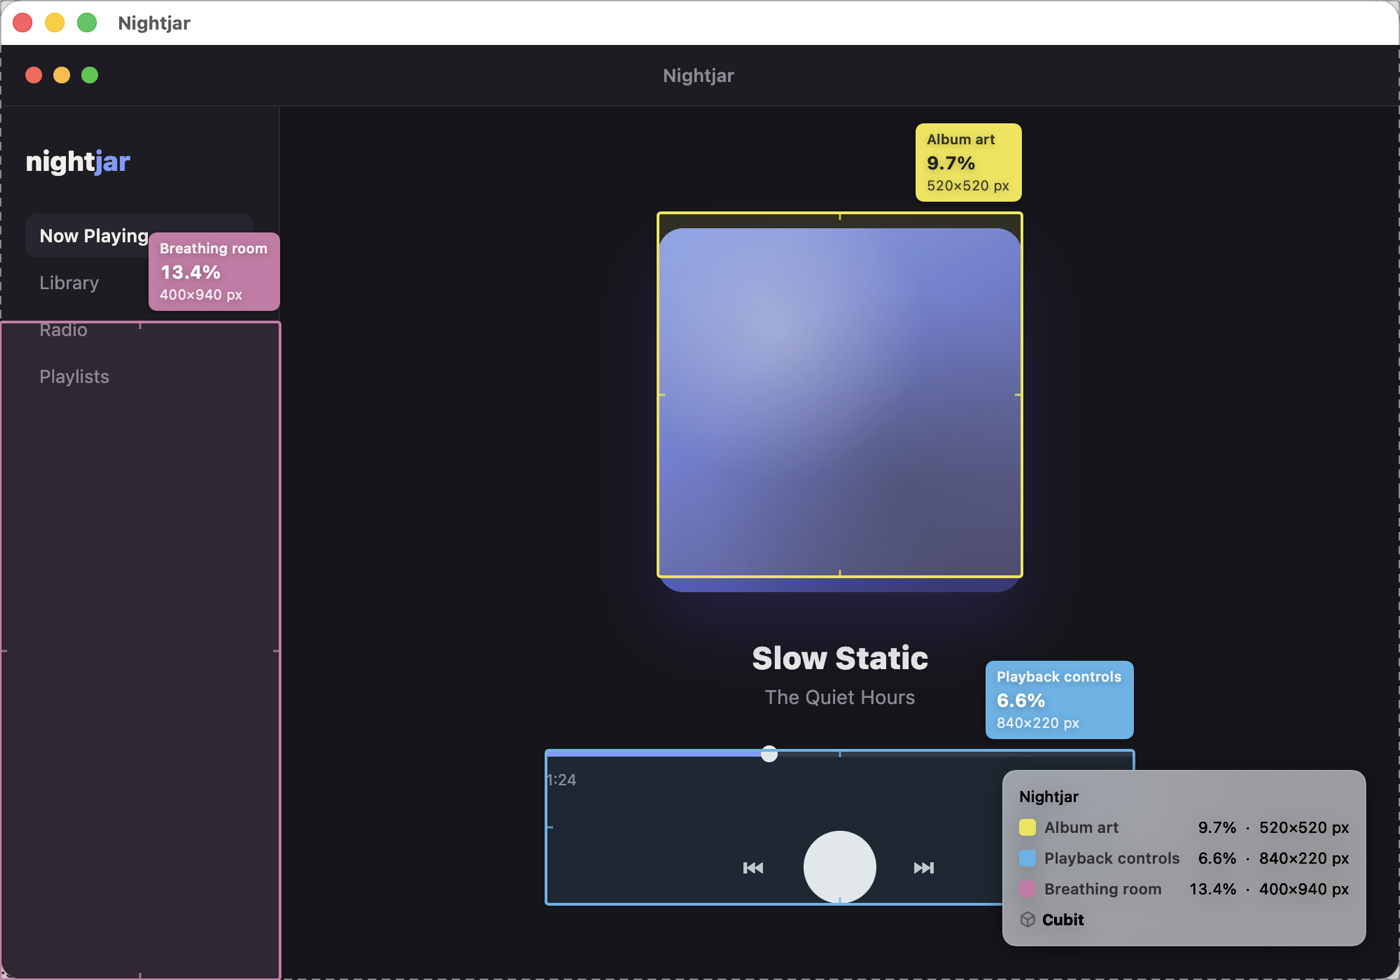
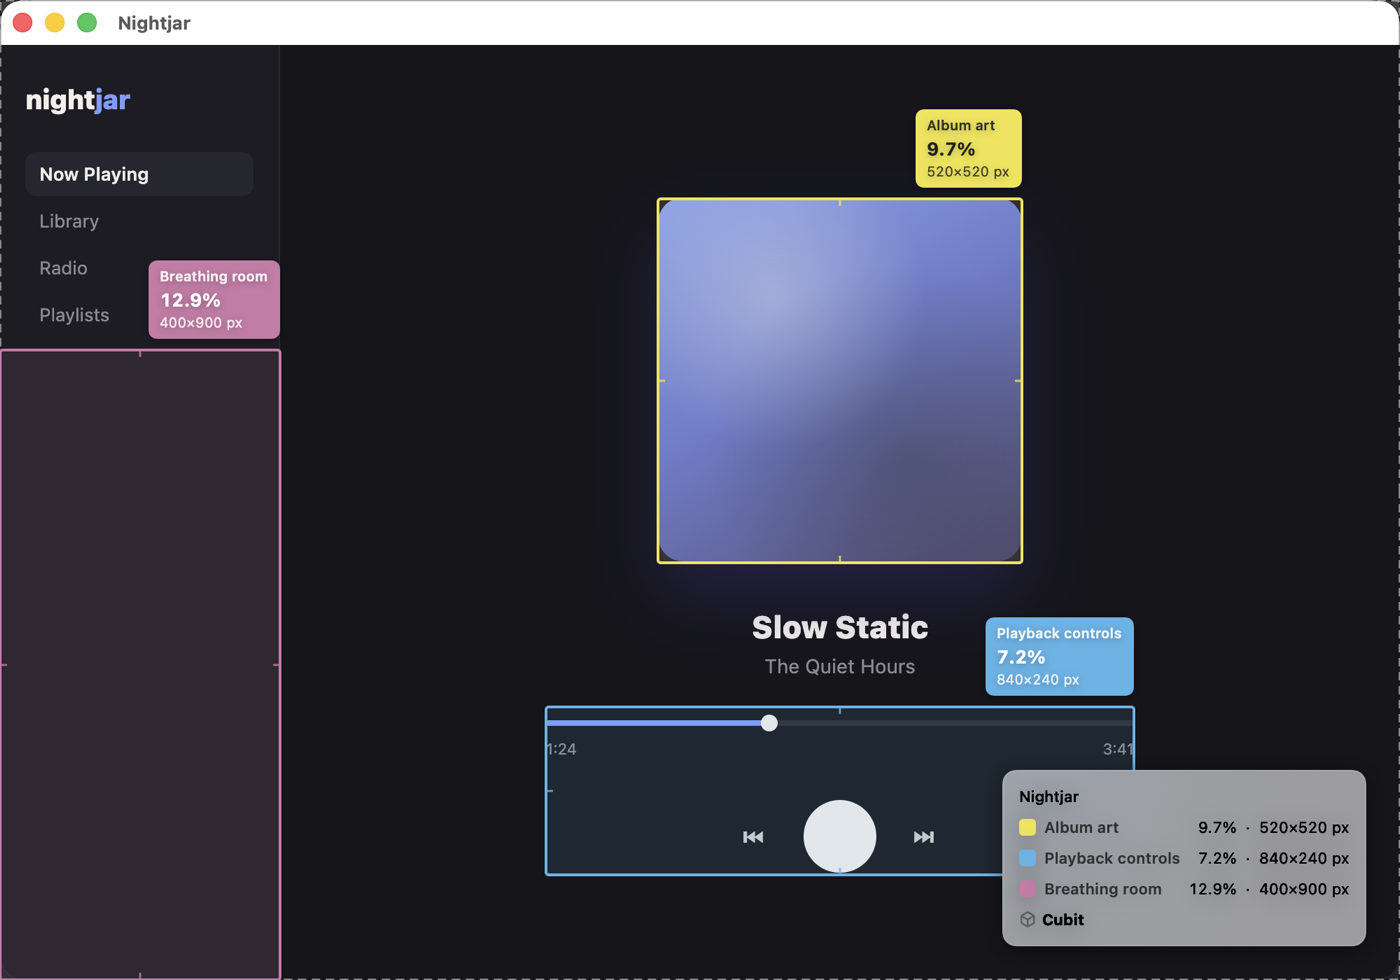
fix(readme): remove doubled title bar from staged export screenshots
The recipe and music app mockups drew a fake in-page title bar on top of
Chrome's real --app window chrome, so both README exports showed two
stacked title bars. Drops the fake bar (the real native one is authentic
enough), re-stages both windows, and re-renders both PNGs through the
same ExportRenderer pipeline with measurement rects re-measured against
the new layout so callouts line up tightly with the actual elements.

Claude-Session: https://claude.ai/code/session_01Leyfy1kbPUkrd3jtNjDjmb

diff --git a/Design/ReadmeAssets/source/music-app.html b/Design/ReadmeAssets/source/music-app.html
@@ -13,28 +13,7 @@
     background: #15151A;
     color: #F1EFEA;
   }
-  .titlebar {
-    height: 44px;
-    display: flex;
-    align-items: center;
-    padding: 0 18px;
-    background: #1C1C22;
-    border-bottom: 1px solid #2A2A32;
-  }
-  .dots { display: flex; gap: 8px; }
-  .dot { width: 12px; height: 12px; border-radius: 50%; }
-  .dot.red { background: #FF5F57; }
-  .dot.yellow { background: #FEBC2E; }
-  .dot.green { background: #28C840; }
-  .titlebar .name {
-    flex: 1;
-    text-align: center;
-    font-size: 13px;
-    font-weight: 600;
-    color: #8B8A93;
-    margin-right: 54px;
-  }
-  .layout { display: flex; height: calc(700px - 44px); }
+  .layout { display: flex; height: 700px; }
   .sidebar {
     width: 200px;
     padding: 28px 18px;
@@ -76,10 +55,6 @@
 </style>
 </head>
 <body>
-  <div class="titlebar">
-    <div class="dots"><div class="dot red"></div><div class="dot yellow"></div><div class="dot green"></div></div>
-    <div class="name">Nightjar</div>
-  </div>
   <div class="layout">
     <div class="sidebar">
       <div class="brand">night<span>jar</span></div>

diff --git a/Design/ReadmeAssets/source/recipe-app.html b/Design/ReadmeAssets/source/recipe-app.html
@@ -13,28 +13,7 @@
     background: #FBF6EE;
     color: #2E2A24;
   }
-  .titlebar {
-    height: 44px;
-    display: flex;
-    align-items: center;
-    padding: 0 18px;
-    background: #F3ECDD;
-    border-bottom: 1px solid #E3D9C2;
-  }
-  .dots { display: flex; gap: 8px; }
-  .dot { width: 12px; height: 12px; border-radius: 50%; }
-  .dot.red { background: #FF5F57; }
-  .dot.yellow { background: #FEBC2E; }
-  .dot.green { background: #28C840; }
-  .titlebar .name {
-    flex: 1;
-    text-align: center;
-    font-size: 13px;
-    font-weight: 600;
-    color: #6B6252;
-    margin-right: 54px;
-  }
-  .layout { display: flex; height: calc(700px - 44px); }
+  .layout { display: flex; height: 700px; }
   .sidebar {
     width: 220px;
     padding: 32px 20px;
@@ -108,10 +87,6 @@
 </style>
 </head>
 <body>
-  <div class="titlebar">
-    <div class="dots"><div class="dot red"></div><div class="dot yellow"></div><div class="dot green"></div></div>
-    <div class="name">Golden Hour</div>
-  </div>
   <div class="layout">
     <div class="sidebar">
       <div class="brand">golden<span>hour</span></div>